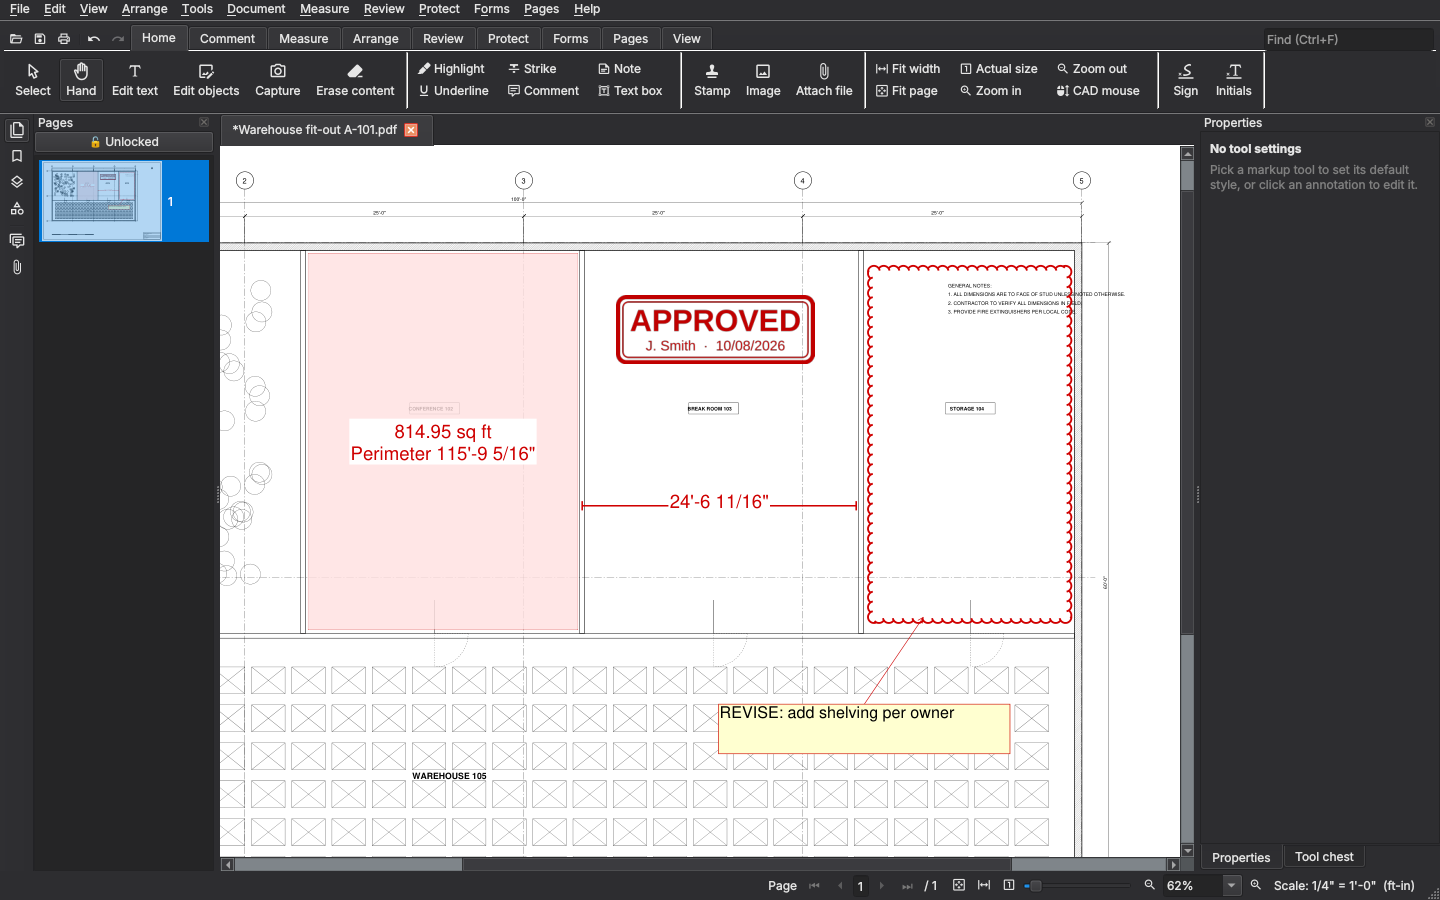
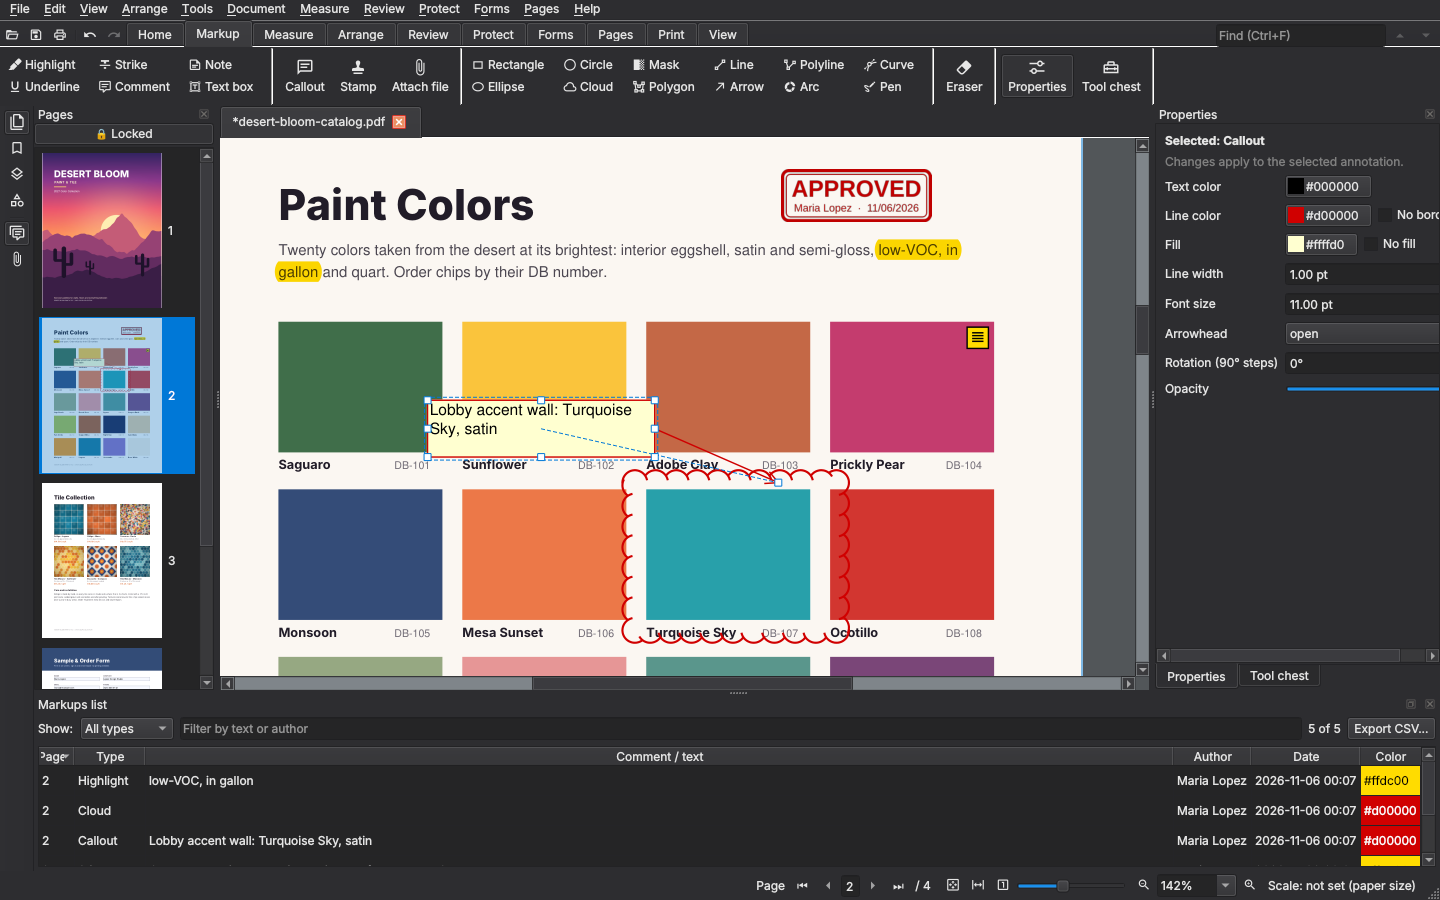
README and listings: KanzonasPDF as a free PDF viewer and editor first (#76)
The owner's decision (docs/ROADMAP.md): a free, general PDF viewer and editor, an alternative to Acrobat Pro and PDF-XChange Editor; measuring a feature for drawings, CAD mode a fun extra. New README top and screenshots; Linux metadata, winget and PortableApps.com descriptions; AlternativeTo text in docs/announcements.md. Docs and packaging text only.

Claude-Session: https://claude.ai/code/session_01L7sMax7KMDgKJNCeao3RgY

diff --git a/tools/make_portableapps.py b/tools/make_portableapps.py
@@ -38,7 +38,7 @@ AppID={app_id}
 Publisher=KanzonasPDF
 Homepage={home}
 Category=Office
-Description=Free PDF reader and editor: markups, measuring, forms, signing and editing
+Description=Free PDF viewer and editor: comments, editing, forms, signing and OCR
 Language=English
 
 [License]

diff --git a/README.md b/README.md
@@ -5,8 +5,9 @@
 <h1 align="center">KanzonasPDF</h1>
 
 <p align="center">
-  <b>Free PDF markup, measuring and editing for construction and engineering, on Windows and Linux</b><br>
-  Open source (AGPL), no account, no telemetry, portable.
+  <b>A free, open-source PDF viewer and editor for Windows and Linux</b><br>
+  Read, comment, edit, fill in, sign, protect and print PDFs. No account, no subscription,<br>
+  no watermarks, no telemetry. Installer or portable.
 </p>
 
 <p align="center">
@@ -19,83 +20,102 @@
 > Used daily for real work. Every release passes 1,000+ automated tests and a self-test of the
 > built program on Windows and Linux before it's published, and reported bugs have been fixed within days.
 
+![KanzonasPDF reviewing a catalog page: highlighted text, a revision cloud with a callout, a sticky note and an APPROVED stamp, with the Markups list below](docs/screenshot-markup.png)
+
 ## Who it's for
 
-People who mark up and measure drawings and plans, estimators, engineers, architects,
-reviewers, and anyone who wants a capable PDF editor without a license or a subscription.
-If you need Bluebeam-style calibration, lengths, areas, volumes and revision clouds, or
-Acrobat-style forms, signatures, redaction and text editing, but not the price, try it.
+Anyone who works with PDFs and wants a capable editor without a license or a subscription:
+reviewing and commenting on documents, filling in and signing forms, fixing a typo in a PDF's
+own text, combining and reorganizing pages, redacting before sharing, or turning scans into
+searchable text. A free alternative to Adobe Acrobat Pro and PDF-XChange Editor, and, for
+people who mark up and measure drawings, to Bluebeam Revu.
 
-| | KanzonasPDF | Bluebeam Revu | Adobe Acrobat Pro | PDF-XChange Editor |
+| | KanzonasPDF | Adobe Acrobat Pro | PDF-XChange Editor | Bluebeam Revu |
 | --- | --- | --- | --- | --- |
-| Price | Free, open source (AGPL) | Annual subscription | Subscription, or a 3-year license (Acrobat Pro 2024) | Free (its paid features add watermarks), or a license |
-| Calibrated measuring (length, area, volume, count) | Yes | Yes | Basic | Yes |
-| Compare revisions (clouds the changes) | Yes | Yes | Yes | Yes |
-| Edit page text and objects | Yes (paragraphs rewrap) | Limited | Yes | Yes |
-| Portable (USB stick, nothing in the registry) | Yes | No | No | Yes |
-| Runs offline, no account | Yes | Account | Account | Yes |
+| Price | Free, open source (AGPL) | Subscription, or a 3-year license (Acrobat Pro 2024) | Free (its paid features add watermarks), or a license | Annual subscription |
+| Edit page text and objects | Yes (paragraphs rewrap) | Yes | Yes | Limited |
+| Fill in and sign forms | Yes | Yes | Yes | Yes |
+| Compare revisions | Yes | Yes | Yes | Yes |
+| Calibrated measuring (length, area, volume, count) | Yes | Basic | Yes | Yes |
+| Portable (USB stick, nothing in the registry) | Yes | No | Yes | No |
+| Runs offline, no account | Yes | Account | Yes | Account |
 
-**All of it free, with no watermarks, no account and nothing uploaded:** calibrated measuring
-(length, area, perimeter, volume, count, angle, radius), scales read from title blocks, revision
-clouds, stamps and a tool chest, compare (word by word, or laid over each other), sheet callout
-links, editing the PDF's own text, pictures and shapes, links on anything, OCR, redaction,
-digital signatures, fillable forms, and export to Word, Excel, PowerPoint and AutoCAD DXF. It
-runs from a USB stick too, or as a PortableApps.com package.
+**All of it free, with no watermarks, no account and nothing uploaded:** comments and markups,
+editing the PDF's own text, pictures and shapes, fillable forms, signatures and digital
+signatures, OCR, redaction, passwords, page tools, compare, export to Word, Excel and
+PowerPoint, and printing with a preview. It runs from a USB stick too, or as a PortableApps.com
+package, and speaks English and Spanish.
 
-**Missing something you rely on in Bluebeam or Acrobat?** [Tell us](#feedback). That's how
-most of the features above got here.
+**Missing something you rely on in Acrobat or another editor?** [Tell us](#feedback). That's
+how most of the features below got here.
 
-![KanzonasPDF with a marked-up floor plan: an area measurement, a length, a revision cloud, a callout and an APPROVED stamp](docs/screenshot-markup.png)
+<p align="center">
+  <img src="docs/screenshot-edit-text.png" width="49%" alt="Editing a paragraph of a catalog's own text in place: the words rewrap as you type">
+  <img src="docs/screenshot-forms.png" width="49%" alt="A fillable order form filled in and signed, with the form fields highlighted">
+</p>
 
 ## What it does
 
 **Read and navigate**
-- Tabs, fast scrolling and zoom even on huge CAD sheets, page thumbnails, bookmarks, layers
+- Tabs, fast scrolling and zoom even on very large pages, page thumbnails, bookmarks, layers
 - Find with every match highlighted; split view to see two places at once
-- Light, dark or match-Windows theme; ribbon or classic toolbars
+- Light, dark or match-system theme; ribbon or classic toolbars; a command palette (Ctrl+Shift+P)
 
-**Mark up and review**
+**Comment and mark up**
 - Highlight, underline, strike out, comment on text, sticky notes, text boxes, callouts
 - Rectangles, ellipses, revision clouds, polygons, lines, arrows, freehand pen
 - Stamps (Approved, Reviewed, Draft and more, or your own), with your name and the date
-- A tool chest of saved markup styles, a markups list you can filter and export, and
-  Compare documents: word by word for text that reflows, or laid over each other for drawings
+- A tool chest of saved markup styles, and a markups list you can filter and export
 - Markups are standard PDF annotations, so Acrobat and other viewers see them too
 
-**Measure** (for drawings and plans)
-- Set the scale from a preset (1/4" = 1'-0", 1:100, ...) or by calibrating a known dimension
-- Length, polylength, area and perimeter, and counts, with a measurement summary you can
-  export to CSV
-- CAD-style mouse (the wheel zooms, hold it to pan) and snapping to the drawing
-
 **Edit the PDF itself**
-- Edit text in place; move, resize, rotate or delete the page's own pictures and vector shapes
-- Erase content in an area, capture an area as sharp vector content, add backgrounds,
-  watermarks, headers and footers, page numbers and Bates numbering
-- Pages: rotate, reorder, insert, extract, combine files
+- Edit text in place: click a paragraph and type, and the words rewrap; find and replace text
+- Move, resize, rotate or delete the page's own pictures and shapes; add text and pictures
+- Erase content in an area, add backgrounds, watermarks, headers and footers, page numbers and
+  Bates numbering, and links on anything
 
-**Sign, protect and clean up**
-- Your signature and initials (drawn or scanned), digital signatures with a certificate,
-  passwords and permissions
-- Redaction removes marked text and, by default, scrubs metadata, attachments, hidden text and scripts. It is not a proven redaction corpus: check the result before sharing.
-- Recognize text (OCR) in scanned pages, offline
+**Fill in and sign**
+- Fill in forms, and create them (text fields, checkboxes, option buttons, dropdowns,
+  signature fields)
+- Your signature and initials (drawn or scanned) and the date, placed anywhere or in a field
+- Digital signatures with a certificate, which prove the file hasn't changed since
 
-**Forms and export**
-- Fill in and create forms
-- Export to Word, Excel, PowerPoint, AutoCAD DXF, images and text
+**Protect, redact and recognize text**
+- Passwords and permissions
+- Redaction removes marked text and, by default, scrubs metadata, attachments, hidden text and
+  scripts. It is not a proven redaction corpus: check the result before sharing.
+- Recognize text (OCR) in scanned pages, offline, so they can be searched and copied
+
+**Pages, compare and convert**
+- Rotate, reorder, insert, extract, crop and delete pages; combine files; make a PDF from images
+- Compare documents: word by word for text that reflows, or laid over each other for drawings
+- Export to Word, Excel, PowerPoint, images and text
 
 **Print**
-- Print with a preview, sharp even for large sheets, with crop marks at the trim box
-- Print production for plotters and print shops: set trim, bleed and art boxes, fix
-  hairlines too thin to print, and check for common printing problems (fonts not embedded,
-  low-resolution or RGB pictures, mixed sheet sizes)
+- Print with a preview, sharp even for large sheets
+- Print production for print shops: trim, bleed and art boxes, crop marks, fixing hairlines too
+  thin to print, and a check for common printing problems (fonts not embedded, low-resolution
+  or RGB pictures, mixed sheet sizes)
+
+**For drawings and plans**
+- Set the scale from a preset (1/4" = 1'-0", 1:100, ...), by calibrating a known dimension, or
+  from the sheet's title block
+- Length, polylength, area, perimeter, volume, angle, radius and counts, with snapping and a
+  measurement summary you can export to CSV
+- Compare two revisions of a sheet, with every change clouded; links from sheet callouts to the
+  sheets they name
+- And, for fun, a CAD mode with AutoCAD-style move, copy, rotate, trim and a command line, plus
+  a night mode (white lines on black) and export to AutoCAD DXF
 
 **Built to stay fast and light:** it starts in well under a second, and every build checks
 start-up time and memory automatically. There's no background service, no account and no
 telemetry. It only goes online to check whether a newer version exists (you can turn that off)
 and, if you add a trusted timestamp to a digital signature, to contact a timestamp server.
 
-![The same view in the dark theme](docs/screenshot-dark.png)
+<p align="center">
+  <img src="docs/screenshot-dark.png" width="49%" alt="The same catalog review in the dark theme">
+  <img src="docs/screenshot-measure.png" width="49%" alt="Measuring a floor plan: an area, a length, counts, a revision cloud and a stamp, with the scale read from the title block">
+</p>
 
 ## Download and install
 

diff --git a/docs/announcements.md b/docs/announcements.md
@@ -9,9 +9,79 @@ self-promotion rule before posting.
 
 Settings (gear icon next to About on the repository page) > Topics:
 
-    pdf pdf-editor pdf-viewer pdf-annotation markup measurement construction cad
-    bluebeam-alternative acrobat-alternative windows portable python pyside6 pymupdf
-    open-source
+    pdf pdf-editor pdf-viewer pdf-annotation pdf-forms ocr redaction acrobat-alternative
+    windows linux portable open-source python pyside6 pymupdf markup measurement
+    bluebeam-alternative
+
+## AlternativeTo
+
+KanzonasPDF is first a general PDF viewer and editor and a free alternative to Acrobat; the
+measuring and CAD tools are extras. Lead with that. Fields as AlternativeTo's form asks them:
+
+**Name:** KanzonasPDF
+
+**Short description:**
+
+> Free, open-source PDF viewer and editor for Windows and Linux. Comment and mark up, edit a
+> PDF's own text, fill in and sign forms, OCR, redact and organize pages, with no account,
+> subscription or watermarks.
+
+**Description:**
+
+> KanzonasPDF is a free, open-source PDF viewer and editor for Windows and Linux, made as a
+> free alternative to Adobe Acrobat Pro and PDF-XChange Editor. Every feature is free, with no
+> watermarks, no account, no subscription and no telemetry.
+>
+> - Read: tabs, thumbnails, bookmarks, fast search with every match highlighted, split view,
+>   light and dark themes.
+> - Comment and mark up: highlights, sticky notes, text boxes, callouts, shapes, clouds,
+>   stamps, a tool chest of saved styles, and a markups list you can filter and export.
+>   Markups are standard PDF annotations, so other PDF apps see them.
+> - Edit the PDF itself: change its text in place (paragraphs rewrap as you type), find and
+>   replace, move, resize or delete pictures and shapes, add text, pictures, watermarks,
+>   headers, footers and page numbers.
+> - Forms and signing: fill in and create forms, place your signature and initials, and sign
+>   digitally with a certificate.
+> - Protect and clean up: passwords and permissions, redaction that also scrubs hidden data,
+>   and offline OCR that makes scans searchable.
+> - Pages and conversion: rotate, reorder, insert, extract, crop and combine; compare two
+>   versions of a document; export to Word, Excel and PowerPoint.
+> - Print with a preview, plus print-shop tools (trim and bleed boxes, crop marks, a check for
+>   common printing problems).
+> - For drawings and plans: calibrated measuring of lengths, areas and volumes, and, as a fun
+>   extra, AutoCAD-style editing tools.
+>
+> It starts in well under a second, runs from a USB stick (portable zip or PortableApps.com) or
+> installs without administrator rights, and is available in English and Spanish. Open source
+> under the AGPL-3.0.
+
+**License:** Free, Open Source (AGPL-3.0)
+
+**Platforms:** Windows, Linux (AppImage), PortableApps.com. (Mac: after it's released.)
+
+**Website:** https://pdf.kanzonas.com · **Source code:** https://github.com/keithlyding/KanzonasPDF
+
+**Linux note:** 64-bit x86 AppImage; needs glibc 2.35 or later (e.g. Ubuntu 22.04, Debian 12,
+Fedora 36 or newer)
+
+**Windows note:** Requires 64-bit Windows 10 or later
+
+**Alternative to:** Adobe Acrobat, PDF-XChange Editor, Foxit PDF Editor, Nitro PDF Pro,
+Master PDF Editor, Bluebeam Revu.
+
+**Features (tags):** Ad-free, No registration required, Privacy focused, Works offline,
+Portable, Lightweight, Dark mode, Tabbed interface, PDF annotation, Edit PDF text, Fill PDF
+forms, Create PDF forms, Digital signature, OCR, Redact PDFs, Merge PDF files, Compare PDF
+files, Password protection, Multilingual.
+
+**Screenshots** (in this order; captions to paste):
+1. `docs/screenshot-markup.png`: Reviewing a catalog: highlights, a cloud and callout, a
+   sticky note and a stamp, with the markups list.
+2. `docs/screenshot-edit-text.png`: Editing a paragraph of the PDF's own text; the words rewrap
+   as you type.
+3. `docs/screenshot-forms.png`: Filling in and signing an order form.
+4. `docs/screenshot-dark.png`: The dark theme.
+5. `docs/screenshot-measure.png`: Measuring a floor plan to scale.
 
 ## Reddit
 

diff --git a/docs/ROADMAP.md b/docs/ROADMAP.md
@@ -41,6 +41,10 @@ The owner sets this list; nothing below is promised until it's here.
    Foundation application was declined as too new; see CODE_SIGNING_POLICY.md).
 
 ## Standing decisions
+- **A PDF viewer and editor first**: KanzonasPDF is presented as a free, general PDF viewer and
+  editor and an alternative to Acrobat Pro and PDF-XChange Editor (README, store listings,
+  screenshots). Measuring for drawings is a feature for one audience; CAD mode is a fun extra,
+  not the headline (owner, 6 Nov 2026).
 - **Free, for good**: official releases stay free for personal and commercial use: no
   subscriptions, trials, paid tiers, required account or paid cloud service; donations never
   unlock features (README, "Free, for good").
